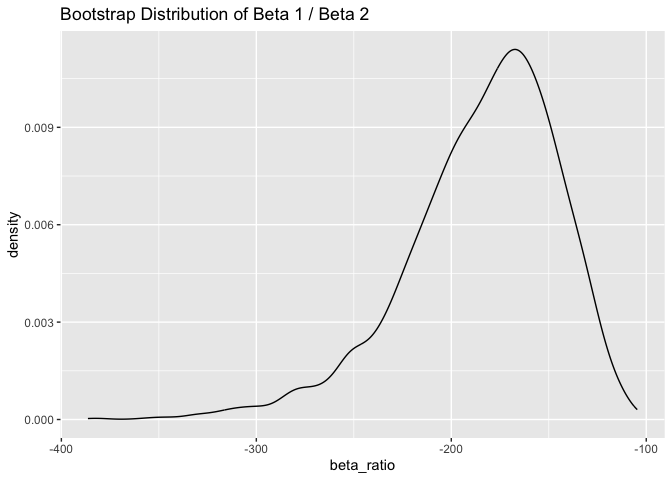
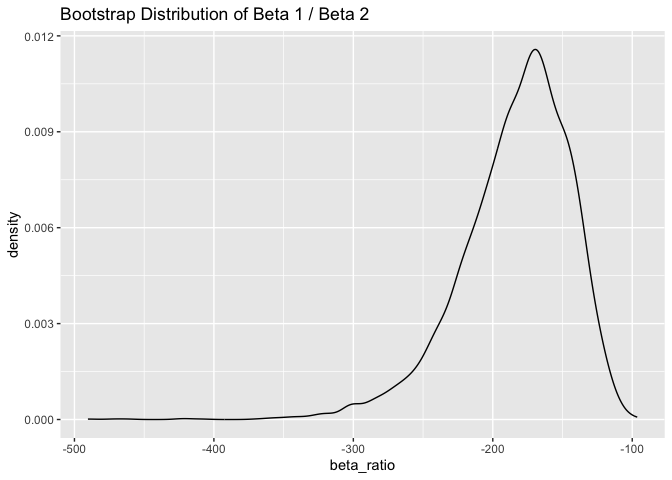
fixed comment

diff --git a/p8105_hw6_mt3866.md b/p8105_hw6_mt3866.md
@@ -179,8 +179,7 @@ Albuquerque, NM while the smallest 95% CI for the adjusted odds ratio is
 for Chicago, IL. The confidence intervals vary widely between the
 different cities. The city with the highest adjusted odds ratio of
 solved homicides for males compared to females is in Albuquerque, NM,
-while the second highest is in Stockton, CA, and the third highest is
-Fresno, CA.
+while the second highest is tied between Fresno, CA, and Stockton, CA.
 
 ### Problem 2
 
@@ -273,7 +272,7 @@ bootstrap_results |>
     ## # A tibble: 1 × 2
     ##   lower upper
     ##   <dbl> <dbl>
-    ## 1 -279. -125.
+    ## 1 -278. -124.
 
 ### Problem 3
 
